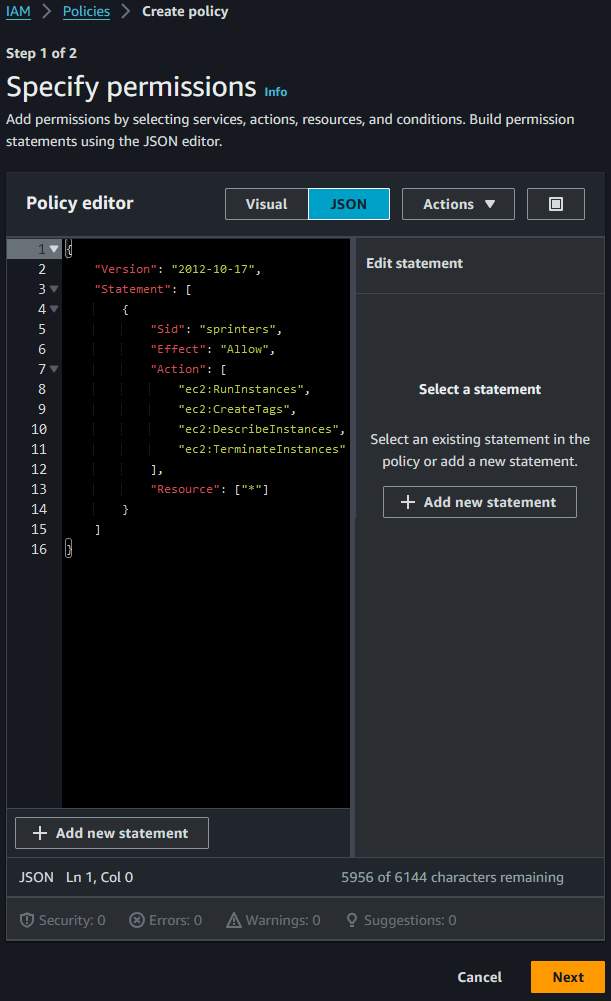
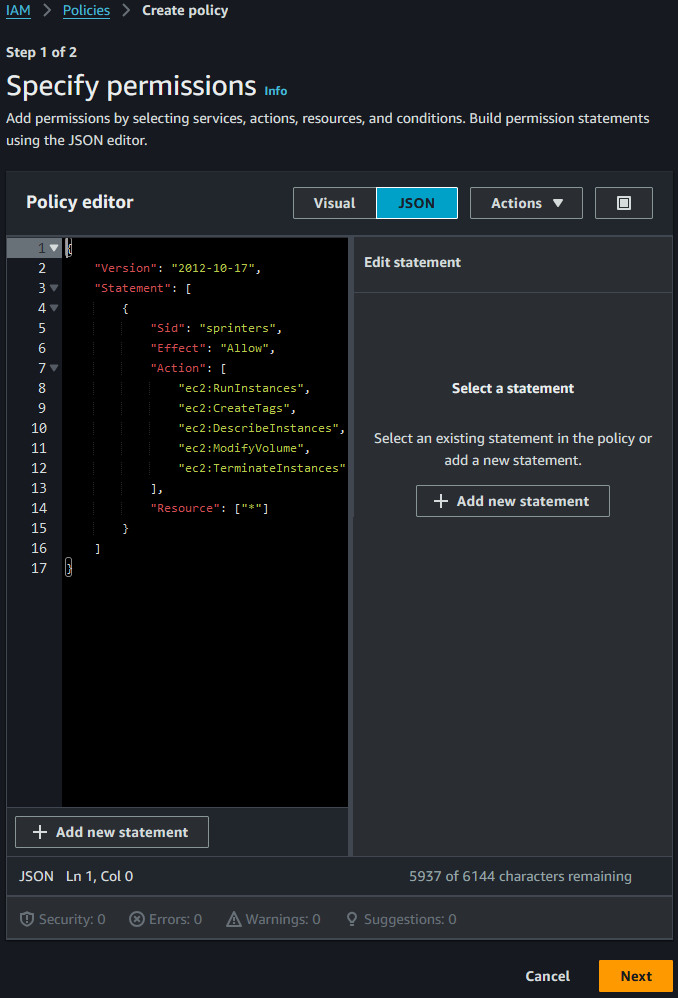
Documented permissions Sprinters doesn't have

diff --git a/_includes/external-link.html b/_includes/external-link.html
@@ -1,1 +1,1 @@
-<a href="{{ include.href }}" target="_blank" rel="noopener noreferrer">{{ include.text }}<sup class="ms-1"><i class="bi bi-box-arrow-up-right"></i></sup></a>
+<a href="{{ include.href }}" class="{{ include.class }}" target="_blank" rel="noopener noreferrer">{{ include.text }}<sup class="ms-1"><i class="bi bi-box-arrow-up-right"></i></sup></a>

diff --git a/docs/setup/aws.md b/docs/setup/aws.md
@@ -4,8 +4,9 @@ title: "AWS Account"
 next: docs/setup/job.md
 ---
 
-The next step is to connect your AWS account to Sprinters. For this you'll need the credentials of an AWS user that has
-enough permissions for Sprinters to launch, list and terminate EC2 instances.
+The next step is to connect your AWS account to Sprinters.
+
+For this you'll need the credentials of an AWS user that has enough permissions for Sprinters to launch, list and terminate EC2 instances.
 
 You can achieve this by
 1. Creating an IAM policy with the required permissions
@@ -15,8 +16,8 @@ You can achieve this by
 
 {% include h2.html text="Permissions" %}
 
-Sprinters strictly adheres to the principle of _least-privilege_ and only requests the absolute minimum set of 
-permissions required to operate:
+Sprinters strictly adheres to the principle of _least-privilege_ and only requests this absolute minimum set of
+permissions to be able to operate:
 
 <div class="table-responsive">
 <table class="table table-bordered">
@@ -51,12 +52,16 @@ permissions required to operate:
 </table>
 </div>
 
+Sprinters has **no login access to your EC2 instances**, **no access to the contents of your EBS volumes** and **no access to your EBS snapshots**.
+
 {% include h2.html text="Create the IAM policy" %}
 
-The IAM policy sets the permissions your IAM user will have. You can create it in a few steps in the AWS Console.
+This IAM policy sets the permissions your IAM user will have.
 
-Begin by navigating to the {% include external-link.html text="AWS Console create policy page"
-href="https://us-east-1.console.aws.amazon.com/iam/home#/policies/create" %} and paste this policy document
+{% include external-link.html text="Create the required policy in the AWS Console" class="btn btn-sm btn-primary"
+href="https://us-east-1.console.aws.amazon.com/iam/home#/policies/create" %}
+
+To do so, paste this policy document:
 
 ```json
 {
@@ -90,8 +95,9 @@ Your IAM policy is now fully set up.
 
 {% include h2.html text="Create the IAM user" %}
 
-Now create the IAM user which will have that policy attached by navigating to 
-the {% include external-link.html text="AWS Console create user page" href="https://us-east-1.console.aws.amazon.com/iam/home#/users/create" %}.
+Now you'll need an IAM user which will have that policy attached.
+
+{% include external-link.html text="Create the required user in the AWS Console" class="btn btn-sm btn-primary" href="https://us-east-1.console.aws.amazon.com/iam/home#/users/create" %}
 
 Give your user the `sprinters-user` name:
 
@@ -109,12 +115,15 @@ Your IAM user is now fully set up.
 
 {% include h2.html text="Create the credentials" %}
 
-Your IAM user now needs credentials. You can create them by navigating to
-the {% include external-link.html text="AWS Console create access key page" href="https://us-east-1.console.aws.amazon.com/iam/home#/users/details/sprinters-user/create-access-key" %}.
+Your IAM user now needs credentials.
+
+{% include external-link.html text="Create the required credentials in the AWS Console" class="btn btn-sm btn-primary" href="https://us-east-1.console.aws.amazon.com/iam/home#/users/details/sprinters-user/create-access-key" %}
+
+Select `Other`:
 
 ![AWS Console access key type](/assets/setup/aws/accesskey-other.png){: .screenshot}
 
-And confirming the creation:
+And confirm the creation:
 
 ![AWS Console access key creation](/assets/setup/aws/accesskey-create.png){: .screenshot}
 

diff --git a/docs/setup/github.md b/docs/setup/github.md
@@ -5,8 +5,7 @@ next: docs/setup/aws.md
 ---
 
 The very first step is to install the {% include external-link.html text="Sprinters GitHub App"
-href="https://github.com/apps/sprinters-sh/installations/select_target" %} on
-your personal or organization account.
+href="https://github.com/apps/sprinters-sh" %} on your personal or organization account.
 
 {% include h2.html text="Installation" %}
 
@@ -23,11 +22,7 @@ clicking _Install_:
 
 {% include h3.html id="permissions" text="Permissions" %}
 
-As you will no doubt have noticed, Sprinters needs a few important {% include external-link.html text="permissions"
-href="https://docs.github.com/en/rest/authentication/permissions-required-for-github-apps" %} in order to work.
-Sprinters strictly
-adheres to the principle of _least-privilege_ and only requests the absolute minimum set of permissions required to
-operate:
+Sprinters strictly adheres to the principle of _least-privilege_ and only requests this absolute minimum set of permissions to be able to operate:
 
 <div class="table-responsive">
 <table class="table table-bordered">
@@ -72,6 +67,8 @@ operate:
 </tbody>
 </table>
 </div>
+
+Sprinters has **no access to the contents of your repositories**, **no access to your secrets** and **no access to your environment variables**.
 
 {% include h2.html text="Success" %}
 

diff --git a/docs/index.md b/docs/index.md
@@ -10,14 +10,14 @@ next: docs/setup/index.md
 
 {% include h2.html text="How does Sprinters work?" %}
 
-**Sprinters** is a {% include external-link.html text="GitHub App" href="https://docs.github.com/en/apps/using-github-apps/about-using-github-apps" %} that
+**Sprinters** is a {% include external-link.html text="GitHub App" href="https://github.com/apps/sprinters-sh" %} that
 you add to your GitHub user or organization account.
 
 Once installed, you must {% include external-link.html text="log in to Sprinters" href="https://console.sprinters.sh/login" %} with your
 GitHub account and provide credentials to your AWS account so that **Sprinters** will be able to launch instances there on your behalf.
 
 Finally, all that's left to do is edit a GitHub Actions workflow yaml file in a repository in your GitHub account and 
-change a job definition's `runs-on:` attribute from
+change a job definition's `runs-on:` directive from
 
 ```yaml
 runs: ubuntu-latest
